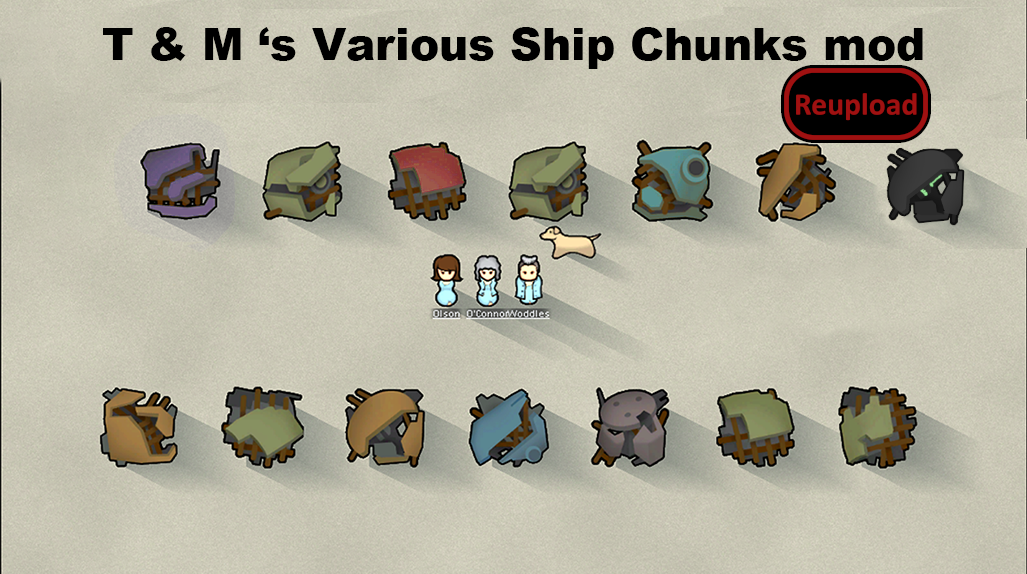
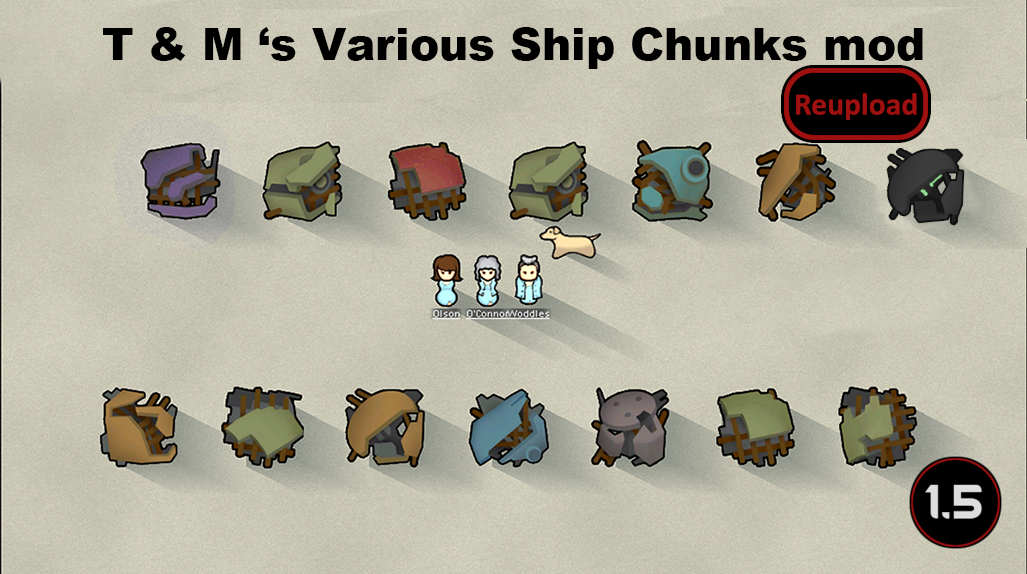
Mod updated for 1.5 and passed autotests Used DeepL to update translations for ChineseSimplified, French, German

Changed region(s): [[0.8724, 0.7997, 0.9971, 0.9774]]

diff --git a/Source/ShipChunkTranspiler/HarmonyPatches.cs b/Source/ShipChunkTranspiler/HarmonyPatches.cs
@@ -14,13 +14,13 @@ internal static class HarmonyPatches
     {
         new Harmony("mehni.rimworld.shipchunks.main").Patch(
             AccessTools.Method(typeof(IncidentWorker_ShipChunkDrop), "SpawnChunk"), null, null,
-            new HarmonyMethod(typeof(HarmonyPatches), "IncidentWorker_ShipChunkDrop_SpawnChunk_Transpiler"));
+            new HarmonyMethod(typeof(HarmonyPatches), nameof(IncidentWorker_ShipChunkDrop_SpawnChunk_Transpiler)));
     }
 
     public static IEnumerable<CodeInstruction> IncidentWorker_ShipChunkDrop_SpawnChunk_Transpiler(
         IEnumerable<CodeInstruction> instructions)
     {
-        var chunkSelector = AccessTools.Method(typeof(HarmonyPatches), "SelectChunkFromAvailableOptions");
+        var chunkSelector = AccessTools.Method(typeof(HarmonyPatches), nameof(SelectChunkFromAvailableOptions));
         var i = 0;
         foreach (var codeInstruction in instructions)
         {
@@ -42,8 +42,7 @@ internal static class HarmonyPatches
 
     public static ThingDef SelectChunkFromAvailableOptions()
     {
-        if (LoadedModManager.GetMod<ShipChunkDrop_TranspilerMod>().GetSettings<ShipChunkDrop_TranspilerSettings>()
-            .SmallChunksAlso)
+        if (ShipChunkDrop_TranspilerMod.instance.Settings.SmallChunksAlso)
         {
             return (from defs in DefDatabase<ThingDef>.AllDefs
                 where defs.defName.StartsWith("ShipChunk") && !defs.defName.Contains("Incoming")

diff --git a/Source/ShipChunkTranspiler/ShipChunkDrop_TranspilerMod.cs b/Source/ShipChunkTranspiler/ShipChunkDrop_TranspilerMod.cs
@@ -27,8 +27,7 @@ internal class ShipChunkDrop_TranspilerMod : Mod
     {
         instance = this;
         currentVersion =
-            VersionFromManifest.GetVersionFromModMetaData(
-                ModLister.GetActiveModWithIdentifier("Mlie.VariousSpaceShipChunk"));
+            VersionFromManifest.GetVersionFromModMetaData(content.ModMetaData);
     }
 
     /// <summary>

diff --git a/README.md b/README.md
@@ -47,11 +47,13 @@ Cute Penguin.
 
 -  See if the the error persists if you just have this mod and its requirements active.
 -  If not, try adding your other mods until it happens again.
--  Post your error-log using https://steamcommunity.com/workshop/filedetails/?id=818773962]HugsLib and command Ctrl+F12
+-  Post your error-log using https://steamcommunity.com/workshop/filedetails/?id=818773962]HugsLib or the standalone https://steamcommunity.com/sharedfiles/filedetails/?id=2873415404]Uploader and command Ctrl+F12
 -  For best support, please use the Discord-channel for error-reporting.
 -  Do not report errors by making a discussion-thread, I get no notification of that.
 -  If you have the solution for a problem, please post it to the GitHub repository.
+-  Use https://github.com/RimSort/RimSort/releases/latest]RimSort to sort your mods
 
 
 
+https://steamcommunity.com/sharedfiles/filedetails/changelog/2014616487]![Image](https://img.shields.io/github/v/release/emipa606/VariousSpaceShipChunk?label=latest%20version&style=plastic&color=9f1111&labelColor=black)
 
